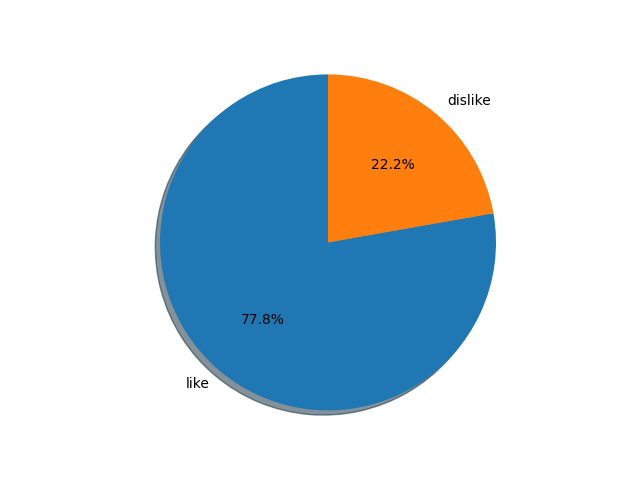
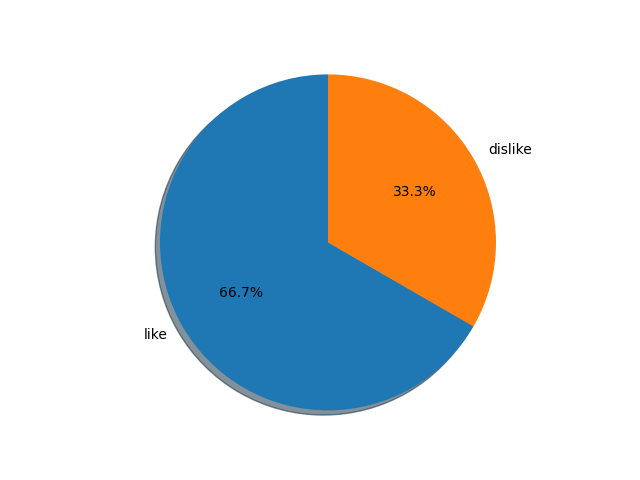
comida por escola

diff --git a/Myapp/templates/Myapp/school_detail.html b/Myapp/templates/Myapp/school_detail.html
@@ -29,5 +29,28 @@
             </tr>
             {% endfor %}
         </table>
+        <hr>
+        <div class="center">
+            <h1>Refeiçoes por Escola</h1>
+        </div>
+        <div class="table-responsive">
+            <table class="table table-bordered table-md">
+                <tr>
+                    <th>#</th>
+                    <th>Nome</th>
+                    <th class="col-md-2 center-block">Ações</th>
+                </tr>
+                {% for Food in Foods %}
+                <tr>
+                    <td><a class="btn btn-success" href="#">{{ forloop.counter }}</a></td>
+                    <td><a id="food_detail" class="btn btn-success" href="/Myapp/food_for_school/{{school.uuid}}/{{Food.uuid}}/">{{Food.name}}</a></td>
+                    <td class="col-md-2 center-block text-center">
+                        <a href="#" class="btn btn-primary">Editar</a>
+                        <a href="/Myapp/delete/{{Food.uuid}}/" class="btn btn-danger">Remover</a>
+                    </td>
+                </tr>
+                {% endfor %}
+            </table>
+        </div>
 </section>
 {% endblock %}

diff --git a/Myapp/templates/Myapp/food_for_school.html b/Myapp/templates/Myapp/food_for_school.html
@@ -1,0 +1,16 @@
+{% extends 'layouts/base.html' %}
+{% load static %}
+{% block title %} Food Detail {% endblock %}
+{% block content %}
+<section class="section">
+    <h1>{{food.name}}</h1>
+    <hr>
+    <div class="center">
+        <img src="/Myapp/graphicfood_for_school/{{school.uuid}}/{{food.uuid}}/" alt="Bargraph">
+    </div>
+    <div class = "center">
+        <p><button class="btn btn-warning">{{disliked_sum}}</button></p>
+        <p><button class="btn btn-primary">{{liked_sum}}</button></p>
+    </div>
+</section>
+{% endblock %}

diff --git a/Myapp/templates/Myapp/classroom_food_detail.html b/Myapp/templates/Myapp/classroom_food_detail.html
@@ -10,7 +10,7 @@
 </div>
 <hr>
 <div class = "center">
-    <p><button class="btn btn-warning">{{classroom_food.disliked}}</button></p>
-    <p><button class="btn btn-primary">{{classroom_food.liked}}</button></p>
+    <p><button class="btn btn-warning">{{disliked_sum}}</button></p>
+    <p><button class="btn btn-primary">{{liked_sum}}</button></p>
 </div>
 {% endblock %}

diff --git a/Myapp/views.py b/Myapp/views.py
@@ -72,6 +72,7 @@ class SchoolDetailView(LoginRequiredMixin, DetailView):
         context = super().get_context_data(**kwargs)
         school = School.objects.get(uuid = self.kwargs.get("uuid"))
         context['classroom'] = Classroom.objects.filter(school = school).order_by('name')
+        context['Foods'] = Food.objects.all().order_by('name')
         return context
 
 class ClassroomDetailView(LoginRequiredMixin, DetailView):
@@ -148,6 +149,54 @@ def graphicFood(request, uuid):
     plt.savefig("bargraph1.png")
     return FileResponse(open("bargraph1.png", "rb"), content_type="image/png")
 
+
+@login_required
+
+def foodForSchool(request,uuid_school,uuid_food):
+
+    school = School.objects.get(uuid = uuid_school)
+    food = Food.objects.get(uuid = uuid_food)
+    classrooms = school.classroom_set.all()
+    liked_sum, disliked_sum = 0 , 0
+
+    for classroom in classrooms:
+
+        classroom_food = Classroom_Food.objects.filter(classroom = classroom).filter(food = food)
+        liked_sum = liked_sum + classroom_food[0].liked
+        disliked_sum = disliked_sum + classroom_food[0].disliked
+
+    return render(request, 'Myapp/food_for_school.html',{"food":food,"school":school,"liked_sum":liked_sum,"disliked_sum":disliked_sum})
+    
+@login_required
+
+def graphicFood_for_School(request,uuid_school,uuid_food):
+
+    school = School.objects.get(uuid = uuid_school)
+    food = Food.objects.get(uuid = uuid_food)
+    classrooms = school.classroom_set.all()
+    liked_sum, disliked_sum = 0 , 0
+
+    for classroom in classrooms:
+
+        classroom_food = Classroom_Food.objects.filter(classroom = classroom).filter(food = food)
+        liked_sum = liked_sum + classroom_food[0].liked
+        disliked_sum = disliked_sum + classroom_food[0].disliked
+    
+    labels = ["like", "dislike"]
+    values = [liked_sum,disliked_sum]
+    fig, ax = plt.subplots()
+    ax.pie(values,labels=labels,autopct='%1.1f%%', shadow=True,startangle=90)
+    ax.axis('equal')
+    plt.savefig("bargraph2.png")
+    return FileResponse(open("bargraph2.png", "rb"), content_type="image/png")
+
+
+
+
+
+    
+    
+    # return render(request, "templates/Myapp/food_for_school.html",{'food':food, 'liked':liked})
 
 
 

diff --git a/Myapp/urls.py b/Myapp/urls.py
@@ -1,6 +1,6 @@
 from django.urls import path
 
-from . views import CreateView,ListView, FoodDeleteView, ClassroomCreateView, SchoolDetailView, ClassroomDetailView, Classroom_FoodDetailView, graphic, FoodDetail,graphicFood
+from . views import CreateView,ListView, FoodDeleteView, ClassroomCreateView, SchoolDetailView, ClassroomDetailView, Classroom_FoodDetailView, graphic, FoodDetail,graphicFood, foodForSchool,graphicFood_for_School
 
 app_name = "Myapp"
 
@@ -15,4 +15,6 @@ urlpatterns = [
     path("graphic/<int:id>/",graphic, name = "graphic"),
     path("food_detail/<uuid:uuid>/", FoodDetail.as_view(), name = "food_detail"),
     path("graphic_food/<str:uuid>/", graphicFood, name="graphic_food"),
+    path("food_for_school/<str:uuid_school>/<str:uuid_food>/", foodForSchool, name="food_for_school"),
+    path("graphicfood_for_school/<str:uuid_school>/<str:uuid_food>/",graphicFood_for_School, name="graphicfood_for_school"),
 ]
